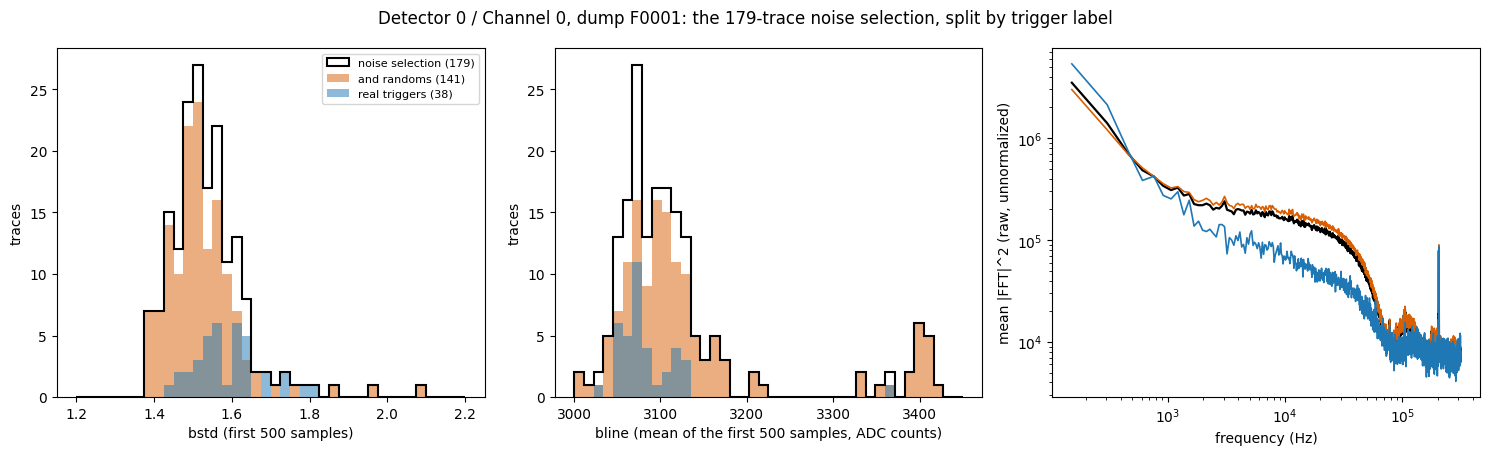
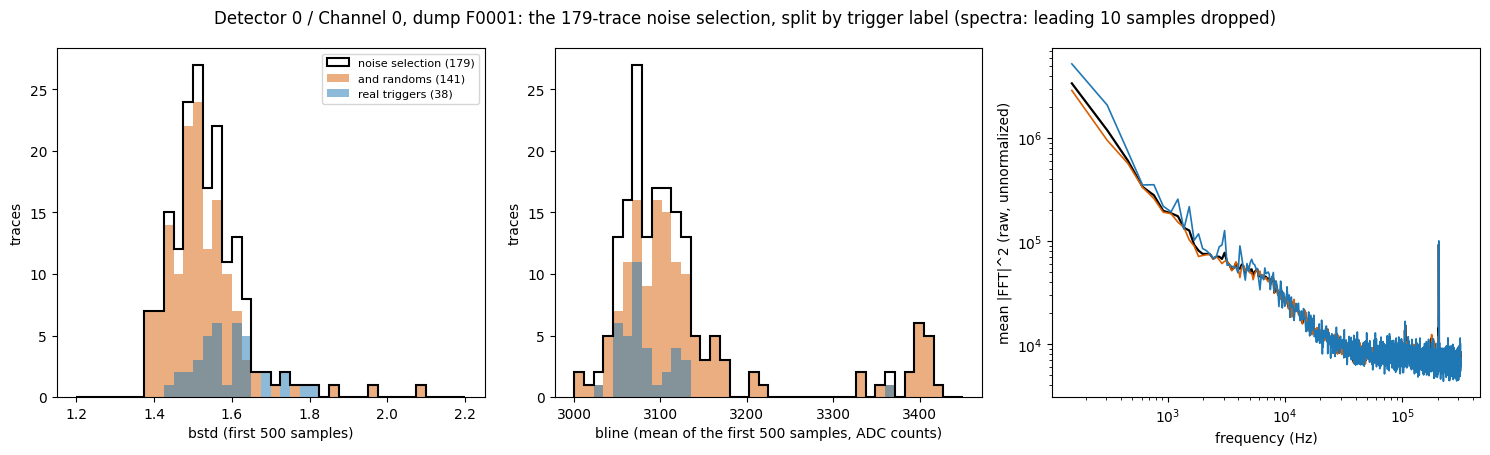
Docs: Note 2a: trace plots of the 141 randoms; correct the spectrum comparison (leading-glitch artifact)
Claude-Session: https://claude.ai/code/session_01GEvmMQzQo8z6ThTARD3NyC

diff --git a/docs/notes/note-02a-bstd-vs-time.html b/docs/notes/note-02a-bstd-vs-time.html
@@ -16,8 +16,8 @@
 
 <h2>Code Repository</h2>
 <ul class="repo">
-  <li><a href="https://github.com/villano-lab/NSDF-Data/blob/08bda67/R76/analysis_notes/07221203_2025_dump1_bstd_time.ipynb"><code>07221203_2025_dump1_bstd_time.ipynb</code></a> &mdash; everything below. Pinned to <code>08bda67</code>.</li>
-  <li><a href="https://github.com/villano-lab/NSDF-Data/tree/08bda67/python"><code>python/</code></a> &mdash; <code>pulse_io</code> and <code>pulse_quantities</code> (<code>bstd</code>, <code>bstd_1000</code>, <code>half_max_time_us</code>), <code>pulse_cuts</code> (<code>randoms</code>, <code>real_triggers</code>) and <code>pulse_io.trigger_types</code> (see <a href="note-01a-pulse-library-structure.html">Note 1a</a>). Pinned to <code>08bda67</code>.</li>
+  <li><a href="https://github.com/villano-lab/NSDF-Data/blob/74639f5/R76/analysis_notes/07221203_2025_dump1_bstd_time.ipynb"><code>07221203_2025_dump1_bstd_time.ipynb</code></a> &mdash; everything below. Pinned to <code>74639f5</code>.</li>
+  <li><a href="https://github.com/villano-lab/NSDF-Data/tree/74639f5/python"><code>python/</code></a> &mdash; <code>pulse_io</code> and <code>pulse_quantities</code> (<code>bstd</code>, <code>bstd_1000</code>, <code>half_max_time_us</code>), <code>pulse_cuts</code> (<code>randoms</code>, <code>real_triggers</code>) and <code>pulse_io.trigger_types</code> (see <a href="note-01a-pulse-library-structure.html">Note 1a</a>). Pinned to <code>74639f5</code>.</li>
 </ul>
 
 <h2>The question</h2>
@@ -117,30 +117,50 @@
 </table></div>
 <p>The selection takes 141 of the 1008 <code>Physics</code> traces (14%) but only 38 of the 509 <code>Unknown</code> ones (7%). Fifteen of the 38 real triggers are in the first <code>Unknown</code> segment (events 11000&ndash;11067), the one without aligned pulses; the other 23 are spread over segments 2&ndash;8 (1 to 9 per segment).</p>
 <figure>
-  <img src="img/dump1_noise_sel_randoms.png" alt="Three panels comparing the 179-trace noise selection, its randoms subset and its real-trigger subset: bstd histogram, bline histogram, and mean raw FFT power against frequency">
-  <figcaption>The 179-trace noise selection (black), the part that passes <code>randoms</code> (orange, 141) and the part that passes <code>real_triggers</code> (blue, 38). Left: <code>bstd</code>. Middle: <code>bline</code>. Right: mean raw |FFT|<sup>2</sup> of the baseline-subtracted traces (unnormalized, so only the comparison between curves means anything).</figcaption>
+  <img src="img/dump1_noise_sel_traces.png" alt="Thirty randomly chosen baseline-subtracted traces from the randoms subset (left) and from the real-trigger subset (right), flat noise within about plus or minus 8 counts">
+  <figcaption>Thirty randomly chosen traces from each part of the selection (of 141 randoms and 38 real triggers), baseline-subtracted, zoomed to &plusmn;15 counts. The leading glitch, up to about 350 counts in a few traces, runs off the top. Both are flat noise with a slow drift of a couple of counts across the trace.</figcaption>
+</figure>
+<figure>
+  <img src="img/dump1_noise_sel_randoms.png" alt="Three panels comparing the 179-trace noise selection, its randoms subset and its real-trigger subset: bstd histogram, bline histogram, and mean raw FFT power against frequency; the spectra agree above 10 kHz">
+  <figcaption>The 179-trace noise selection (black), the part that passes <code>randoms</code> (orange, 141) and the part that passes <code>real_triggers</code> (blue, 38). Left: <code>bstd</code>. Middle: <code>bline</code>. Right: mean raw |FFT|<sup>2</sup> of the baseline-subtracted traces with the leading 10 samples dropped (unnormalized, so only the comparison between curves means anything).</figcaption>
 </figure>
 <ul>
   <li><strong>Baseline scatter</strong> is nearly the same: <code>bstd</code> medians 1.513 (randoms) and 1.580 (real triggers), with the real triggers a little broader on the high side.</li>
   <li><strong>Baseline level.</strong> 18 of the 141 randoms have <code>bline</code> above 3300 (a separate group near 3400 ADC counts); only 1 of the 38 real triggers does.</li>
-  <li><strong>Spectrum.</strong> The real triggers have less power between about 1 and 60 kHz. The 204 kHz line is in both groups, at a similar height (mean |FFT|<sup>2</sup> in that bin: 6.6&times;10<sup>4</sup> randoms, 7.1&times;10<sup>4</sup> and 9.5&times;10<sup>4</sup> for the two real-trigger groups below).</li>
+  <li><strong>Spectrum.</strong> The mean spectra of the two groups agree, including the 204 kHz line (mean |FFT|<sup>2</sup> in that bin: 9.0&times;10<sup>4</sup> for randoms before event 11000, 9.1&times;10<sup>4</sup> and 1.06&times;10<sup>5</sup> for the real triggers of segment 1 and of later segments).</li>
 </ul>
 
-<p>The label and the time are tangled: 139 of the 141 randoms are before event 11000 and every real trigger is after it. Splitting the real triggers at the end of segment 1 shows the difference is not a simple randoms-versus-real one (mean raw |FFT|<sup>2</sup> in each band, relative to the 139 randoms before event 11000):</p>
+<div class="callout"><strong class="tag">Correction</strong>
+<p>The first version of this section, published earlier on 25 Sept, said the real triggers have less power between about 1 and 60 kHz, in the band where a pulse has its signal, and that this difference was largest in segment 1. <strong>That was wrong.</strong> It came from averaging spectra of whole traces: six of the 141 randoms (events 10176, 10185, 10470, 10517, 10807 and 10971) begin with a glitch, a step of 150&ndash;350 counts lasting 5&ndash;8 samples, and one real trigger has one too (170 counts). <code>bstd</code> and <code>bline</code> skip the first 10 samples, but an FFT does not, and a step that large puts a broad spectrum into the mean.</p></div>
+<figure>
+  <img src="img/dump1_glitch_randoms.png" alt="First 40 samples of six randoms: each starts 150 to 350 counts above the baseline for 5 to 8 samples, then drops to zero">
+  <figcaption>The first 40 samples of the six randoms with the most 10&ndash;50 kHz power in the whole-trace spectrum.</figcaption>
+</figure>
+<div class="table-scroll"><table class="compact">
+  <thead><tr><th></th><th class="num">Whole trace: mean</th><th class="num">median</th><th class="num">Leading 10 samples dropped: mean</th><th class="num">median</th></tr></thead>
+  <tbody>
+    <tr><td>Randoms (141)</td><td class="num">1.14&times;10<sup>5</sup></td><td class="num">1.20&times;10<sup>4</sup></td><td class="num">1.16&times;10<sup>4</sup></td><td class="num">1.16&times;10<sup>4</sup></td></tr>
+    <tr><td>Real triggers (38)</td><td class="num">3.92&times;10<sup>4</sup></td><td class="num">1.20&times;10<sup>4</sup></td><td class="num">1.16&times;10<sup>4</sup></td><td class="num">1.15&times;10<sup>4</sup></td></tr>
+  </tbody>
+</table></div>
+<p>Per-trace power in the 10&ndash;50 kHz band (raw |FFT|<sup>2</sup>, mean over the band). The medians never differed; the mean of the whole-trace spectra of the randoms was ten times its median because of the glitch traces. With the first 10 samples dropped, mean and median agree in both groups.</p>
+<p>The corrected band-by-band comparison, with the real triggers split at the end of segment 1 (139 randoms before event 11000; mean raw |FFT|<sup>2</sup>, glitch samples dropped):</p>
 <div class="table-scroll"><table class="compact">
   <thead><tr><th>Band (Hz)</th><th class="num">Randoms before 11000 (139)</th><th class="num">Real, segment 1 (15)</th><th class="num">Real, later (23)</th><th class="num">Later / randoms</th><th class="num">Segment 1 / randoms</th></tr></thead>
   <tbody>
-    <tr><td>1000&ndash;3000</td><td class="num">2.62&times;10<sup>5</sup></td><td class="num">8.53&times;10<sup>4</sup></td><td class="num">2.16&times;10<sup>5</sup></td><td class="num">0.82</td><td class="num">0.33</td></tr>
-    <tr><td>3000&ndash;10,000</td><td class="num">2.09&times;10<sup>5</sup></td><td class="num">4.47&times;10<sup>4</sup></td><td class="num">1.16&times;10<sup>5</sup></td><td class="num">0.55</td><td class="num">0.21</td></tr>
-    <tr><td>10,000&ndash;50,000</td><td class="num">1.15&times;10<sup>5</sup></td><td class="num">1.20&times;10<sup>4</sup></td><td class="num">5.70&times;10<sup>4</sup></td><td class="num">0.49</td><td class="num">0.10</td></tr>
-    <tr><td>50,000&ndash;150,000</td><td class="num">1.59&times;10<sup>4</sup></td><td class="num">7.90&times;10<sup>3</sup></td><td class="num">1.21&times;10<sup>4</sup></td><td class="num">0.76</td><td class="num">0.50</td></tr>
-    <tr><td>250,000&ndash;310,000</td><td class="num">8.61&times;10<sup>3</sup></td><td class="num">6.78&times;10<sup>3</sup></td><td class="num">7.32&times;10<sup>3</sup></td><td class="num">0.85</td><td class="num">0.79</td></tr>
+    <tr><td>1000&ndash;3000</td><td class="num">9.28&times;10<sup>4</sup></td><td class="num">8.56&times;10<sup>4</sup></td><td class="num">1.43&times;10<sup>5</sup></td><td class="num">1.54</td><td class="num">0.92</td></tr>
+    <tr><td>3000&ndash;10,000</td><td class="num">4.40&times;10<sup>4</sup></td><td class="num">4.45&times;10<sup>4</sup></td><td class="num">5.08&times;10<sup>4</sup></td><td class="num">1.16</td><td class="num">1.01</td></tr>
+    <tr><td>10,000&ndash;50,000</td><td class="num">1.16&times;10<sup>4</sup></td><td class="num">1.17&times;10<sup>4</sup></td><td class="num">1.16&times;10<sup>4</sup></td><td class="num">1.00</td><td class="num">1.01</td></tr>
+    <tr><td>50,000&ndash;150,000</td><td class="num">7.83&times;10<sup>3</sup></td><td class="num">7.86&times;10<sup>3</sup></td><td class="num">7.87&times;10<sup>3</sup></td><td class="num">1.01</td><td class="num">1.00</td></tr>
+    <tr><td>250,000&ndash;310,000</td><td class="num">6.79&times;10<sup>3</sup></td><td class="num">6.75&times;10<sup>3</sup></td><td class="num">6.79&times;10<sup>3</sup></td><td class="num">1.00</td><td class="num">0.99</td></tr>
   </tbody>
 </table></div>
-<p>The real triggers of segment 1 have the least mid-band power (10&ndash;50 kHz power a tenth of the randoms&rsquo;), the later ones are in between (about half). So the spectrum changes by segment as well as, or instead of, by trigger label, and with 2 randoms after event 11000 there is no way in this dump to separate a trigger-type effect from a change in time. The averages are over 15 and 23 traces, so they are noisy.</p>
+<p>Above 10 kHz the three groups agree to about 1%. Below 10 kHz the later real triggers are somewhat higher (1.54 times in the 1&ndash;3 kHz band, 1.16 times in 3&ndash;10 kHz); those bands contain only a few frequency bins, the group is 23 traces, and no uncertainty has been estimated, so this is not established as a difference.</p>
 
-<p><strong>What adding <code>randoms</code> does to the selection:</strong> it removes 38 of 179 traces (21%), which are the ones with the lowest mid-band noise power and the fewest high-<code>bline</code> traces; the remaining 141 are 97% from before event 11000. It leaves the <code>bstd</code> distribution and the 204 kHz line essentially unchanged.</p>
-<p>Note that the 38 real triggers in the selection are, by construction, traces with no pulse in Detector 0 / Channel 0 after sample 500 (and none in samples 500&ndash;1000 either). Whatever triggered those events was not a pulse on this channel; other channels and detectors were not looked at.</p>
+<p><strong>What adding <code>randoms</code> does to the selection:</strong> it removes 38 of 179 traces (21%). The remaining 141 are 97% from before event 11000. In this dump it leaves the <code>bstd</code> distribution, the mean spectrum above 10 kHz and the 204 kHz line unchanged; the only difference found is the group of 18 randoms with <code>bline</code> near 3400. There is still no way in this dump to separate a trigger-type effect from a change in time, since only 2 randoms come after event 11000 and every real trigger does.</p>
+<p>The 38 real triggers in the selection are, by construction, traces with no pulse in Detector 0 / Channel 0 after sample 500 (and none in samples 500&ndash;1000 either). Whatever triggered those events was not a pulse on this channel; other channels and detectors were not looked at.</p>
+
+<p>The leading glitch matters for any spectrum study of this dump: <a href="note-03-noise-psd.html">Note 3</a> and later spectra should be checked for it (a glitch this size is enough to change a mean spectrum by an order of magnitude in the signal band).</p>
 
 <h2>Reading</h2>
 <ul>

diff --git a/docs/index.html b/docs/index.html
@@ -136,7 +136,7 @@
       <td class="date">25 Sept 2026</td>
       <td>Anthony</td>
       <td>Why does bstd_1000 have so many more high-bstd traces than bstd? (series 07221203_2025, dump 1)</td>
-      <td class="desc">bstd and bstd_1000 against event number for dump 1. Before event 11000 the 1000-sample window has about twice as many high-bstd traces (the random-pulse expectation). From event 11071 the Unknown-trigger segments are quiet in 500 samples and loud in 1000, because their pulses rise together just after sample 500; these are most of the lined-up pulses in the Note 2 high tail. Most of them reach half their maximum about 836 us into the trace (histogram of the new half_max_time_us). Also compares the 179-trace noise selection with and without a randoms cut (141 vs 38 real-trigger traces, which have less mid-band noise power).</td>
+      <td class="desc">bstd and bstd_1000 against event number for dump 1. Before event 11000 the 1000-sample window has about twice as many high-bstd traces (the random-pulse expectation). From event 11071 the Unknown-trigger segments are quiet in 500 samples and loud in 1000, because their pulses rise together just after sample 500; these are most of the lined-up pulses in the Note 2 high tail. Most of them reach half their maximum about 836 us into the trace (histogram of the new half_max_time_us). Also compares the 179-trace noise selection with and without a randoms cut (141 randoms, 38 real triggers): the two parts agree in baseline scatter and in spectrum above 10 kHz; a leading glitch in a few traces can distort mean spectra.</td>
       <td class="kw">bstd, pretrigger window, trigger type, time order, dump 1</td>
       <td><span class="status in-progress">In progress</span></td>
       <td></td>
